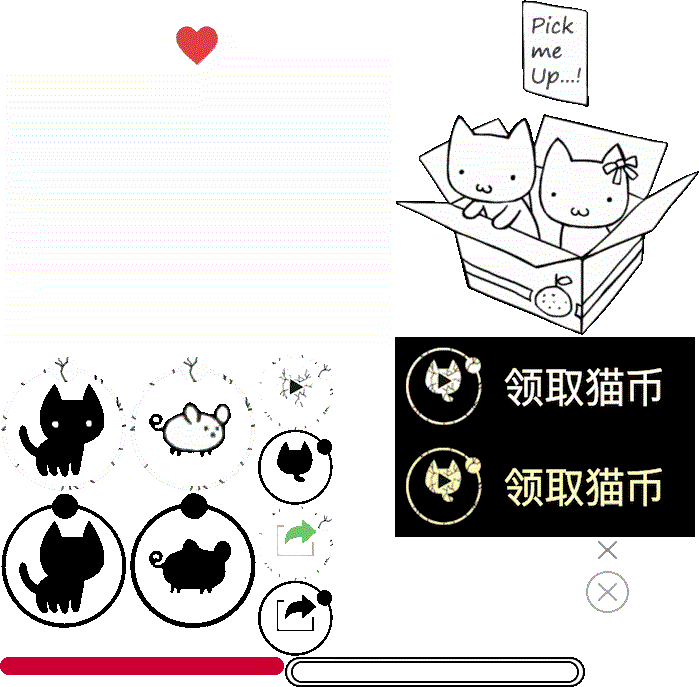
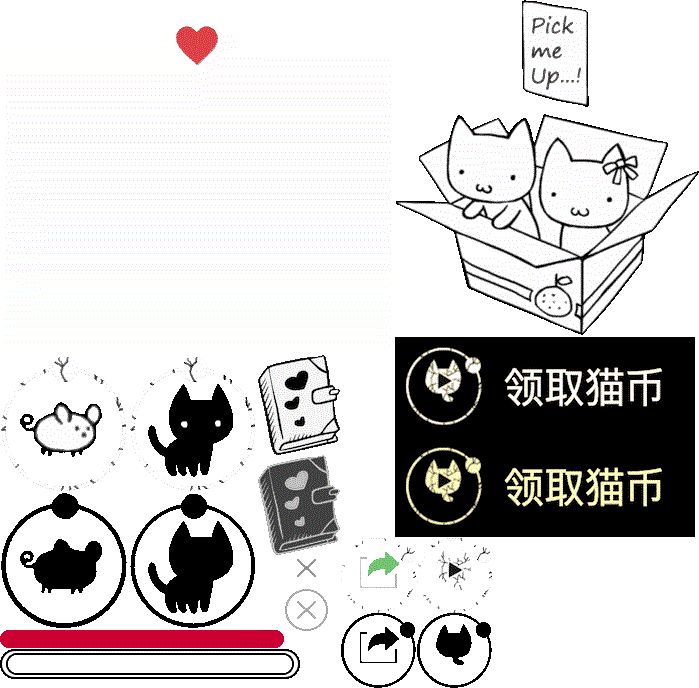
增加日志本

diff --git a/src/view/GameUI.js b/src/view/GameUI.js
@@ -91,6 +91,7 @@ export default class GameUI extends Laya.Scene {
         this.btnFood.visible = true
         this.btnGold.visible = true
         this.btnShare.visible = true
+        this.btnDiary.visible = true
 
         this.progressExp.visible = true
         this.labelGold.visible = true
@@ -109,6 +110,7 @@ export default class GameUI extends Laya.Scene {
         this.btnFood.visible = false
         this.btnGold.visible = false
         this.btnShare.visible = false
+        this.btnDiary.visible = false        
 
         this.progressExp.visible = false
         this.labelGold.visible = false
